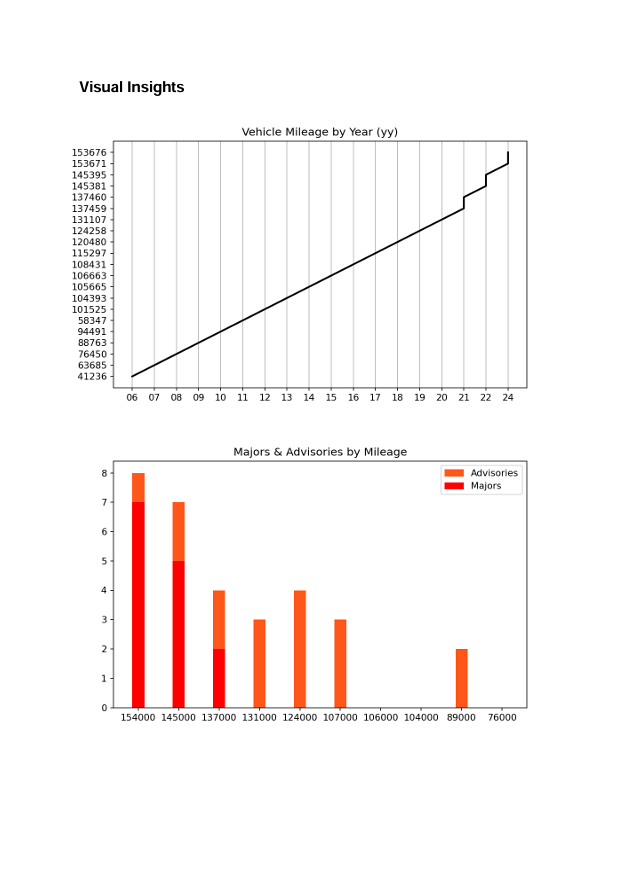
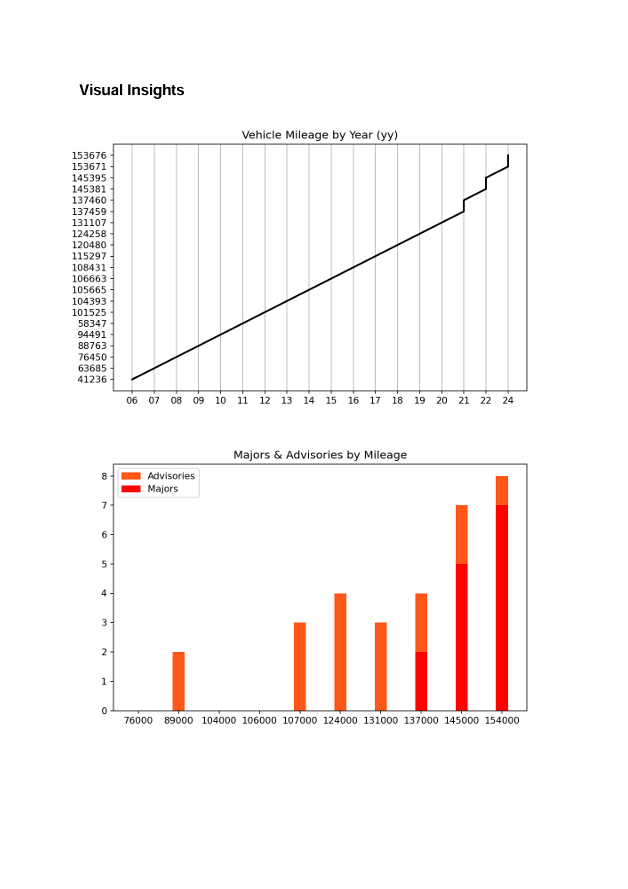
Reversed order of mileage to be ascending

diff --git a/export.py b/export.py
@@ -185,6 +185,8 @@ def create_pdf(filename: str, vehicle: Vehicle) -> None:
                     "majors": len([x for x in m.defects if x.type == "MAJOR"])
                 }
 
+        data = dict(reversed(list(data.items())))
+
         comments_by_mileage_graph = create_stacked_bar_graph(
             [str(x) for x in data.keys()], 
             [value["advisories"] for value in data.values()], 
